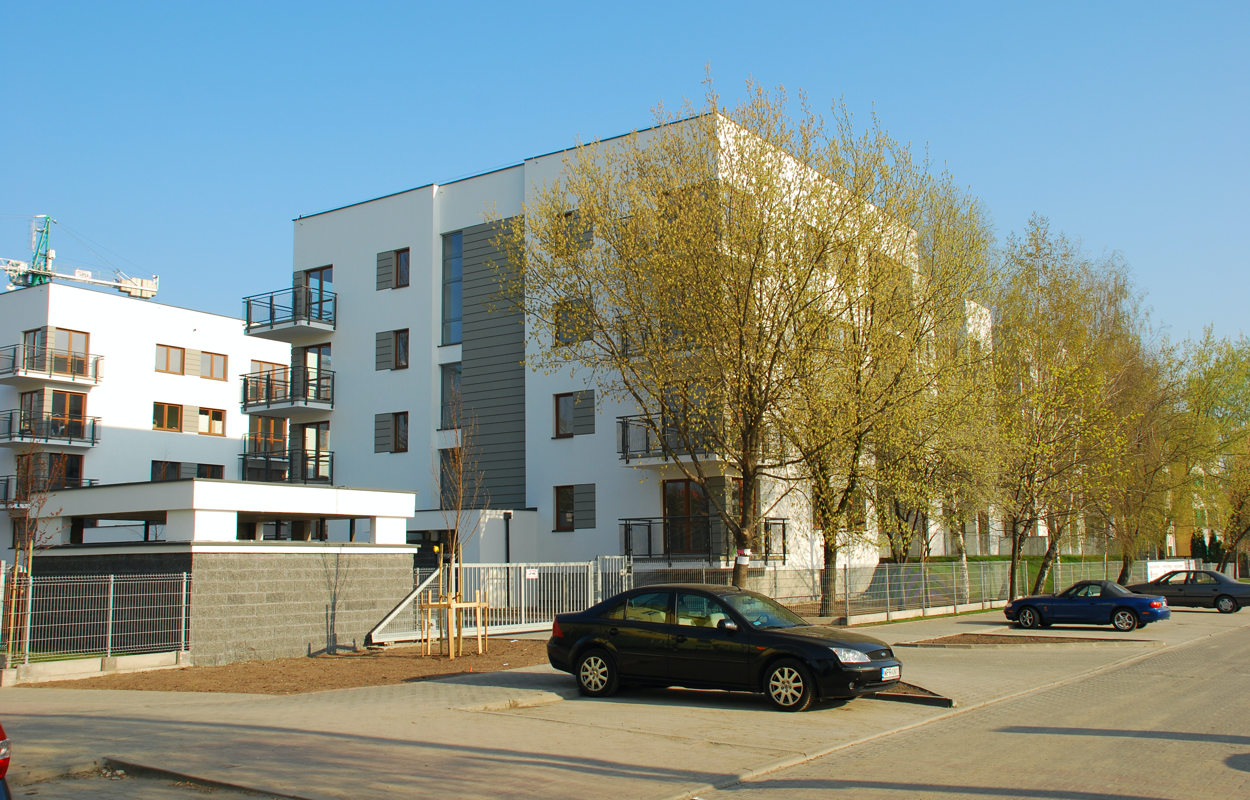
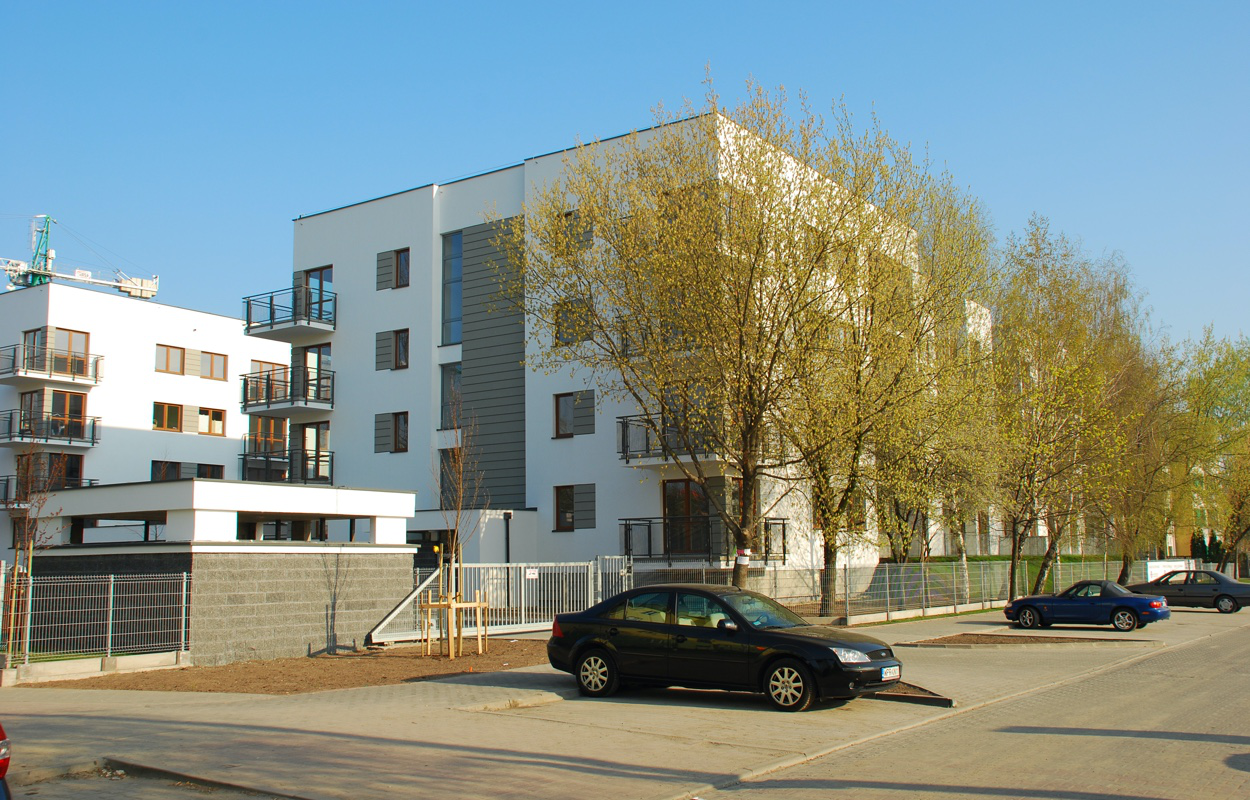
Move from .png to .jpg on ilustrations

Changed region(s): [[0.0, 0.7188, 0.0312, 0.8125]]

diff --git a/pages/galeria.html b/pages/galeria.html
@@ -106,9 +106,9 @@
                     <picture>
                         <source type="image/webp"
                             srcset="../images/julianowska-1-1x.webp 1x, ../images/julianowska-1-2x.webp 2x">
-                        <source type="image/png"
-                            srcset="../images/julianowska-1-1x.png 1x, ../images/julianowska-1-2x.png 2x">
-                        <img src="../images/julianowska-1-1x.png" alt="Zdjęcie budynku Julianowska 26" />
+                        <source type="image.jpg"
+                            srcset="../images/julianowska-1-1x.jpg 1x, ../images/julianowska-1-2x.jpg 2x">
+                        <img src="../images/julianowska-1-1x.jpg" alt="Zdjęcie budynku Julianowska 26" />
                         <figcaption>Budynek mieszkalny wielorodzinny Julianowska 26
                             w Warszawie [1999 - 2000] – 2.000 m2 PUM</figcaption>
                     </picture>
@@ -118,9 +118,9 @@
                     <picture>
                         <source type="image/webp"
                             srcset="../images/krzywinska-1-1x.webp 1x, ../images/krzywinska-1-2x.webp 2x">
-                        <source type="image/png"
-                            srcset="../images/krzywinska-1-1x.png 1x, ../images/krzywinska-1-2x.png 2x">
-                        <img src="../images/krzywinska-1-1x.png" alt="Zdjęcie budynku Krzywińska 26" />
+                        <source type="image.jpg"
+                            srcset="../images/krzywinska-1-1x.jpg 1x, ../images/krzywinska-1-2x.jpg 2x">
+                        <img src="../images/krzywinska-1-1x.jpg" alt="Zdjęcie budynku Krzywińska 26" />
                         <figcaption>Budynek mieszkalny wielorodzinny Krzywińska 11
                             w Warszawie [2000 - 2001] – 1.200 m2 PUM</figcaption>
                     </picture>
@@ -130,9 +130,9 @@
                     <picture>
                         <source type="image/webp"
                             srcset="../images/hodowlana-1-1x.webp 1x, ../images/hodowlana-1-2x.webp 2x">
-                        <source type="image/png"
-                            srcset="../images/hodowlana-1-1x.png 1x, ../images/hodowlana-1-2x.png 2x">
-                        <img src="../images/hodowlana-1-1x.png" alt="Zdjęcie budynku Hodowlana 3/5" />
+                        <source type="image.jpg"
+                            srcset="../images/hodowlana-1-1x.jpg 1x, ../images/hodowlana-1-2x.jpg 2x">
+                        <img src="../images/hodowlana-1-1x.jpg" alt="Zdjęcie budynku Hodowlana 3/5" />
                         <figcaption>Budynek mieszkalny wielorodzinny Hodowlana 3/5
                             w Warszawie [2004] – 1.050 m2 PUM</figcaption>
                     </picture>
@@ -142,9 +142,9 @@
                     <picture>
                         <source type="image/webp"
                             srcset="../images/reymonta-1-1x.webp 1x, ../images/reymonta-1-2x.webp 2x">
-                        <source type="image/png"
-                            srcset="../images/reymonta-1-1x.png 1x, ../images/reymonta-1-2x.png 2x">
-                        <img src="../images/reymonta-1-1x.png" alt="Zdjęcie zespołu budynków Reymonta" />
+                        <source type="image.jpg"
+                            srcset="../images/reymonta-1-1x.jpg 1x, ../images/reymonta-1-2x.jpg 2x">
+                        <img src="../images/reymonta-1-1x.jpg" alt="Zdjęcie zespołu budynków Reymonta" />
                         <figcaption>Zespół zabudowy wielorodzinnej Reymonta
                             w Józefowie [2004-2005] – 900 m2 PUM</figcaption>
                     </picture>
@@ -153,8 +153,8 @@
                 <figure class="main-article__image">
                     <picture>
                         <source type="image/webp" srcset="../images/atrium-1-1x.webp 1x, ../images/atrium-1-2x.webp 2x">
-                        <source type="image/png" srcset="../images/atrium-1-1x.png 1x, ../images/atrium-1-2x.png 2x">
-                        <img src="../images/atrium-1-1x.png" alt="Zdjęcie osiedla Atrium" />
+                        <source type="image.jpg" srcset="../images/atrium-1-1x.jpg 1x, ../images/atrium-1-2x.jpg 2x">
+                        <img src="../images/atrium-1-1x.jpg" alt="Zdjęcie osiedla Atrium" />
                         <figcaption>Osiedle Atrium
                             w Pruszkowie [2007-2011] – 9.450 m2 PUM</figcaption>
                     </picture>
@@ -164,9 +164,9 @@
                     <picture>
                         <source type="image/webp"
                             srcset="../images/wisniowy-1-1x.webp 1x, ../images/wisniowy-1-2x.webp 2x">
-                        <source type="image/png"
-                            srcset="../images/wisniowy-1-1x.png 1x, ../images/wisniowy-1-2x.png 2x">
-                        <img src="../images/wisniowy-1-1x.png" alt="Zdjęcie osiedla Wiśniowy Sad 1 i 2" />
+                        <source type="image.jpg"
+                            srcset="../images/wisniowy-1-1x.jpg 1x, ../images/wisniowy-1-2x.jpg 2x">
+                        <img src="../images/wisniowy-1-1x.jpg" alt="Zdjęcie osiedla Wiśniowy Sad 1 i 2" />
                         <figcaption>Osiedle Wiśniowy Sad
                             w Warszawie [2008-2011] – 14.100 m2 PUM</figcaption>
                     </picture>
@@ -176,9 +176,9 @@
                     <picture>
                         <source type="image/webp"
                             srcset="../images/swiderska-1-1x.webp 1x, ../images/swiderska-1-2x.webp 2x">
-                        <source type="image/png"
-                            srcset="../images/swiderska-1-1x.png 1x, ../images/swiderska-1-2x.png 2x">
-                        <img src="../images/swiderska-1-1x.png" alt="Zdjęcie osiedla Świderska 1 i 2" />
+                        <source type="image.jpg"
+                            srcset="../images/swiderska-1-1x.jpg 1x, ../images/swiderska-1-2x.jpg 2x">
+                        <img src="../images/swiderska-1-1x.jpg" alt="Zdjęcie osiedla Świderska 1 i 2" />
                         <figcaption>Osiedle Świderska
                             w Józefowie [2007-2008] – 3.300 m2 PUM</figcaption>
                     </picture>
@@ -187,8 +187,8 @@
                 <figure class="main-article__image">
                     <picture>
                         <source type="image/webp" srcset="../images/zabki-1-1x.webp 1x, ../images/zabki-1-2x.webp 2x">
-                        <source type="image/png" srcset="../images/zabki-1-1x.png 1x, ../images/zabki-1-2x.png 2x">
-                        <img src="../images/zabki-1-1x.png" alt="Wizualizacja budynku Patio Ząbki" />
+                        <source type="image.jpg" srcset="../images/zabki-1-1x.jpg 1x, ../images/zabki-1-2x.jpg 2x">
+                        <img src="../images/zabki-1-1x.jpg" alt="Wizualizacja budynku Patio Ząbki" />
                         <figcaption>Budynek mieszkalny wielorodzinny Patio Ząbki
                             [2008-2011] – 2.350 m2 PUM</figcaption>
                     </picture>
@@ -198,9 +198,9 @@
                     <picture>
                         <source type="image/webp"
                             srcset="../images/nowemiasto-1-1x.webp 1x, ../images/nowemiasto-1-2x.webp 2x">
-                        <source type="image/png"
-                            srcset="../images/nowemiasto-1-1x.png 1x, ../images/nowemiasto-1-2x.png 2x">
-                        <img src="../images/nowemiasto-1-1x.png" alt="Zdjęcie budynku Patio Ząbki" />
+                        <source type="image.jpg"
+                            srcset="../images/nowemiasto-1-1x.jpg 1x, ../images/nowemiasto-1-2x.jpg 2x">
+                        <img src="../images/nowemiasto-1-1x.jpg" alt="Zdjęcie budynku Patio Ząbki" />
                         <figcaption>Zespół zabudowy wielorodzinnej Nowe Miasto Pruszków
                             [2019-2015] – 13.900 m2 PUM</figcaption>
                     </picture>

diff --git a/pages/kontakt.html b/pages/kontakt.html
@@ -111,8 +111,8 @@
                 <figure class="main-article__image">
                     <picture>
                         <source type="image/webp" srcset="../images/address-1x.webp 1x, ../images/address-2x.webp 2x">
-                        <source type="image/png" srcset="../images/address-1x.png 1x, ../images/address-2x.png 2x">
-                        <img src="../images/address-1x.png" alt="Zdjęcie drogowskazu z adresem AIPP" />
+                        <source type="image/jpg" srcset="../images/address-1x.jpg 1x, ../images/address-2x.jpg 2x">
+                        <img src="../images/address-1x.jpg" alt="Zdjęcie drogowskazu z adresem AIPP" />
                     </picture>
                 </figure>
             </article>
